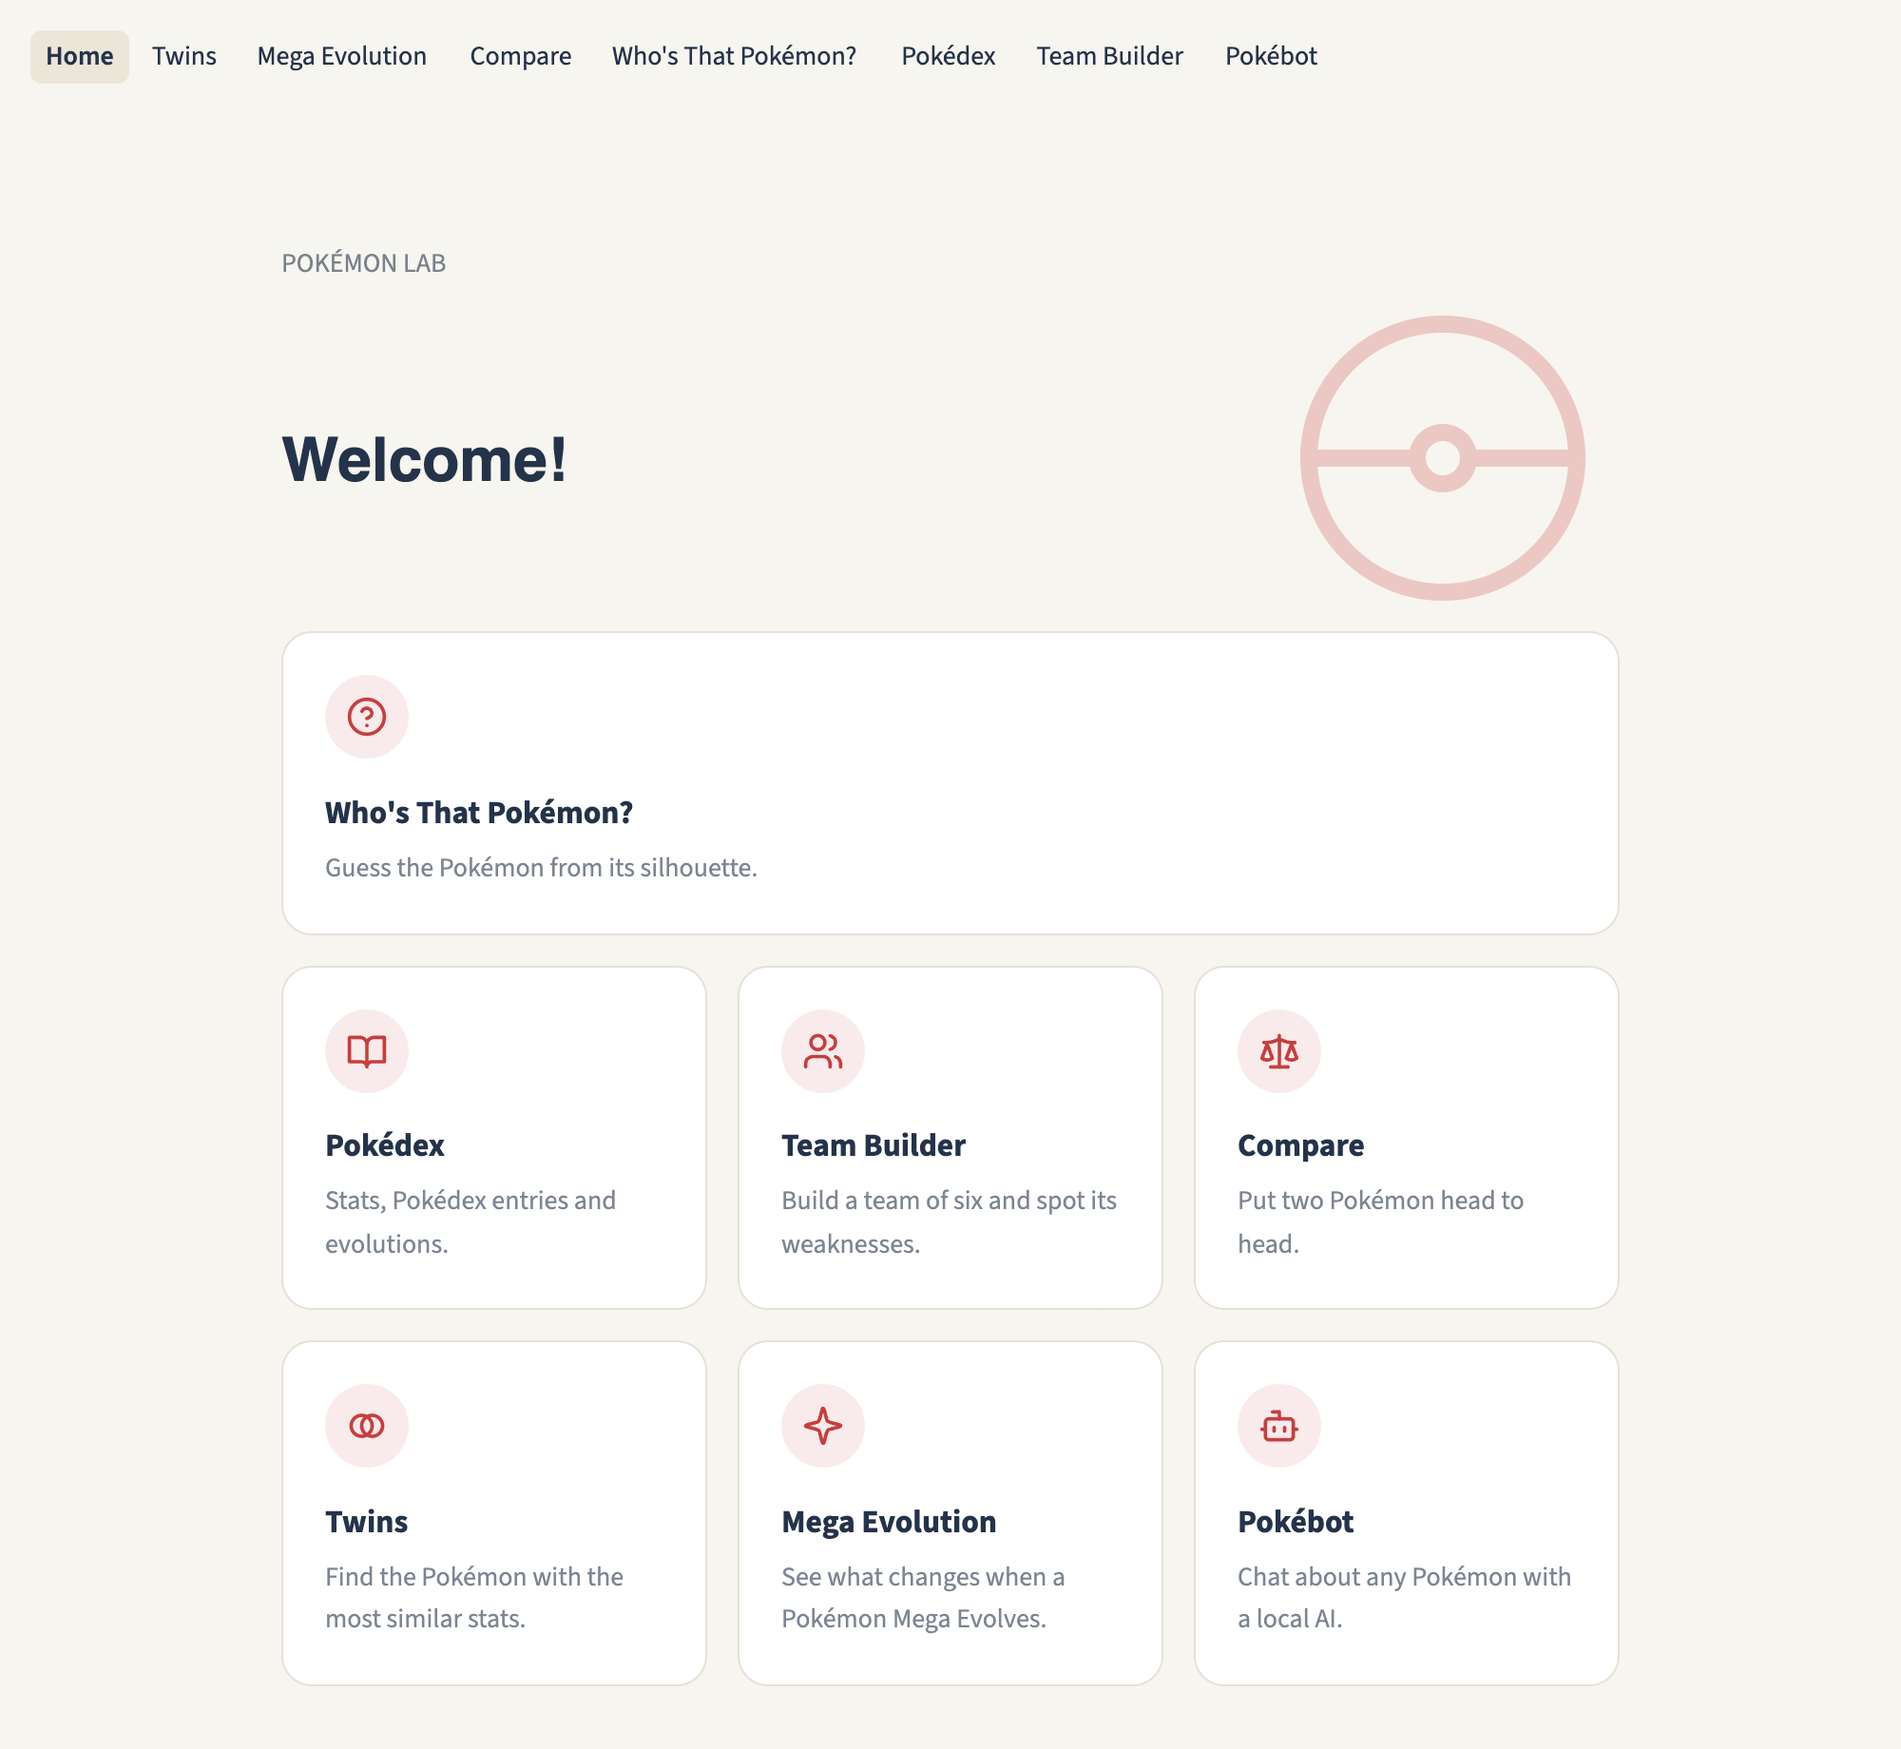
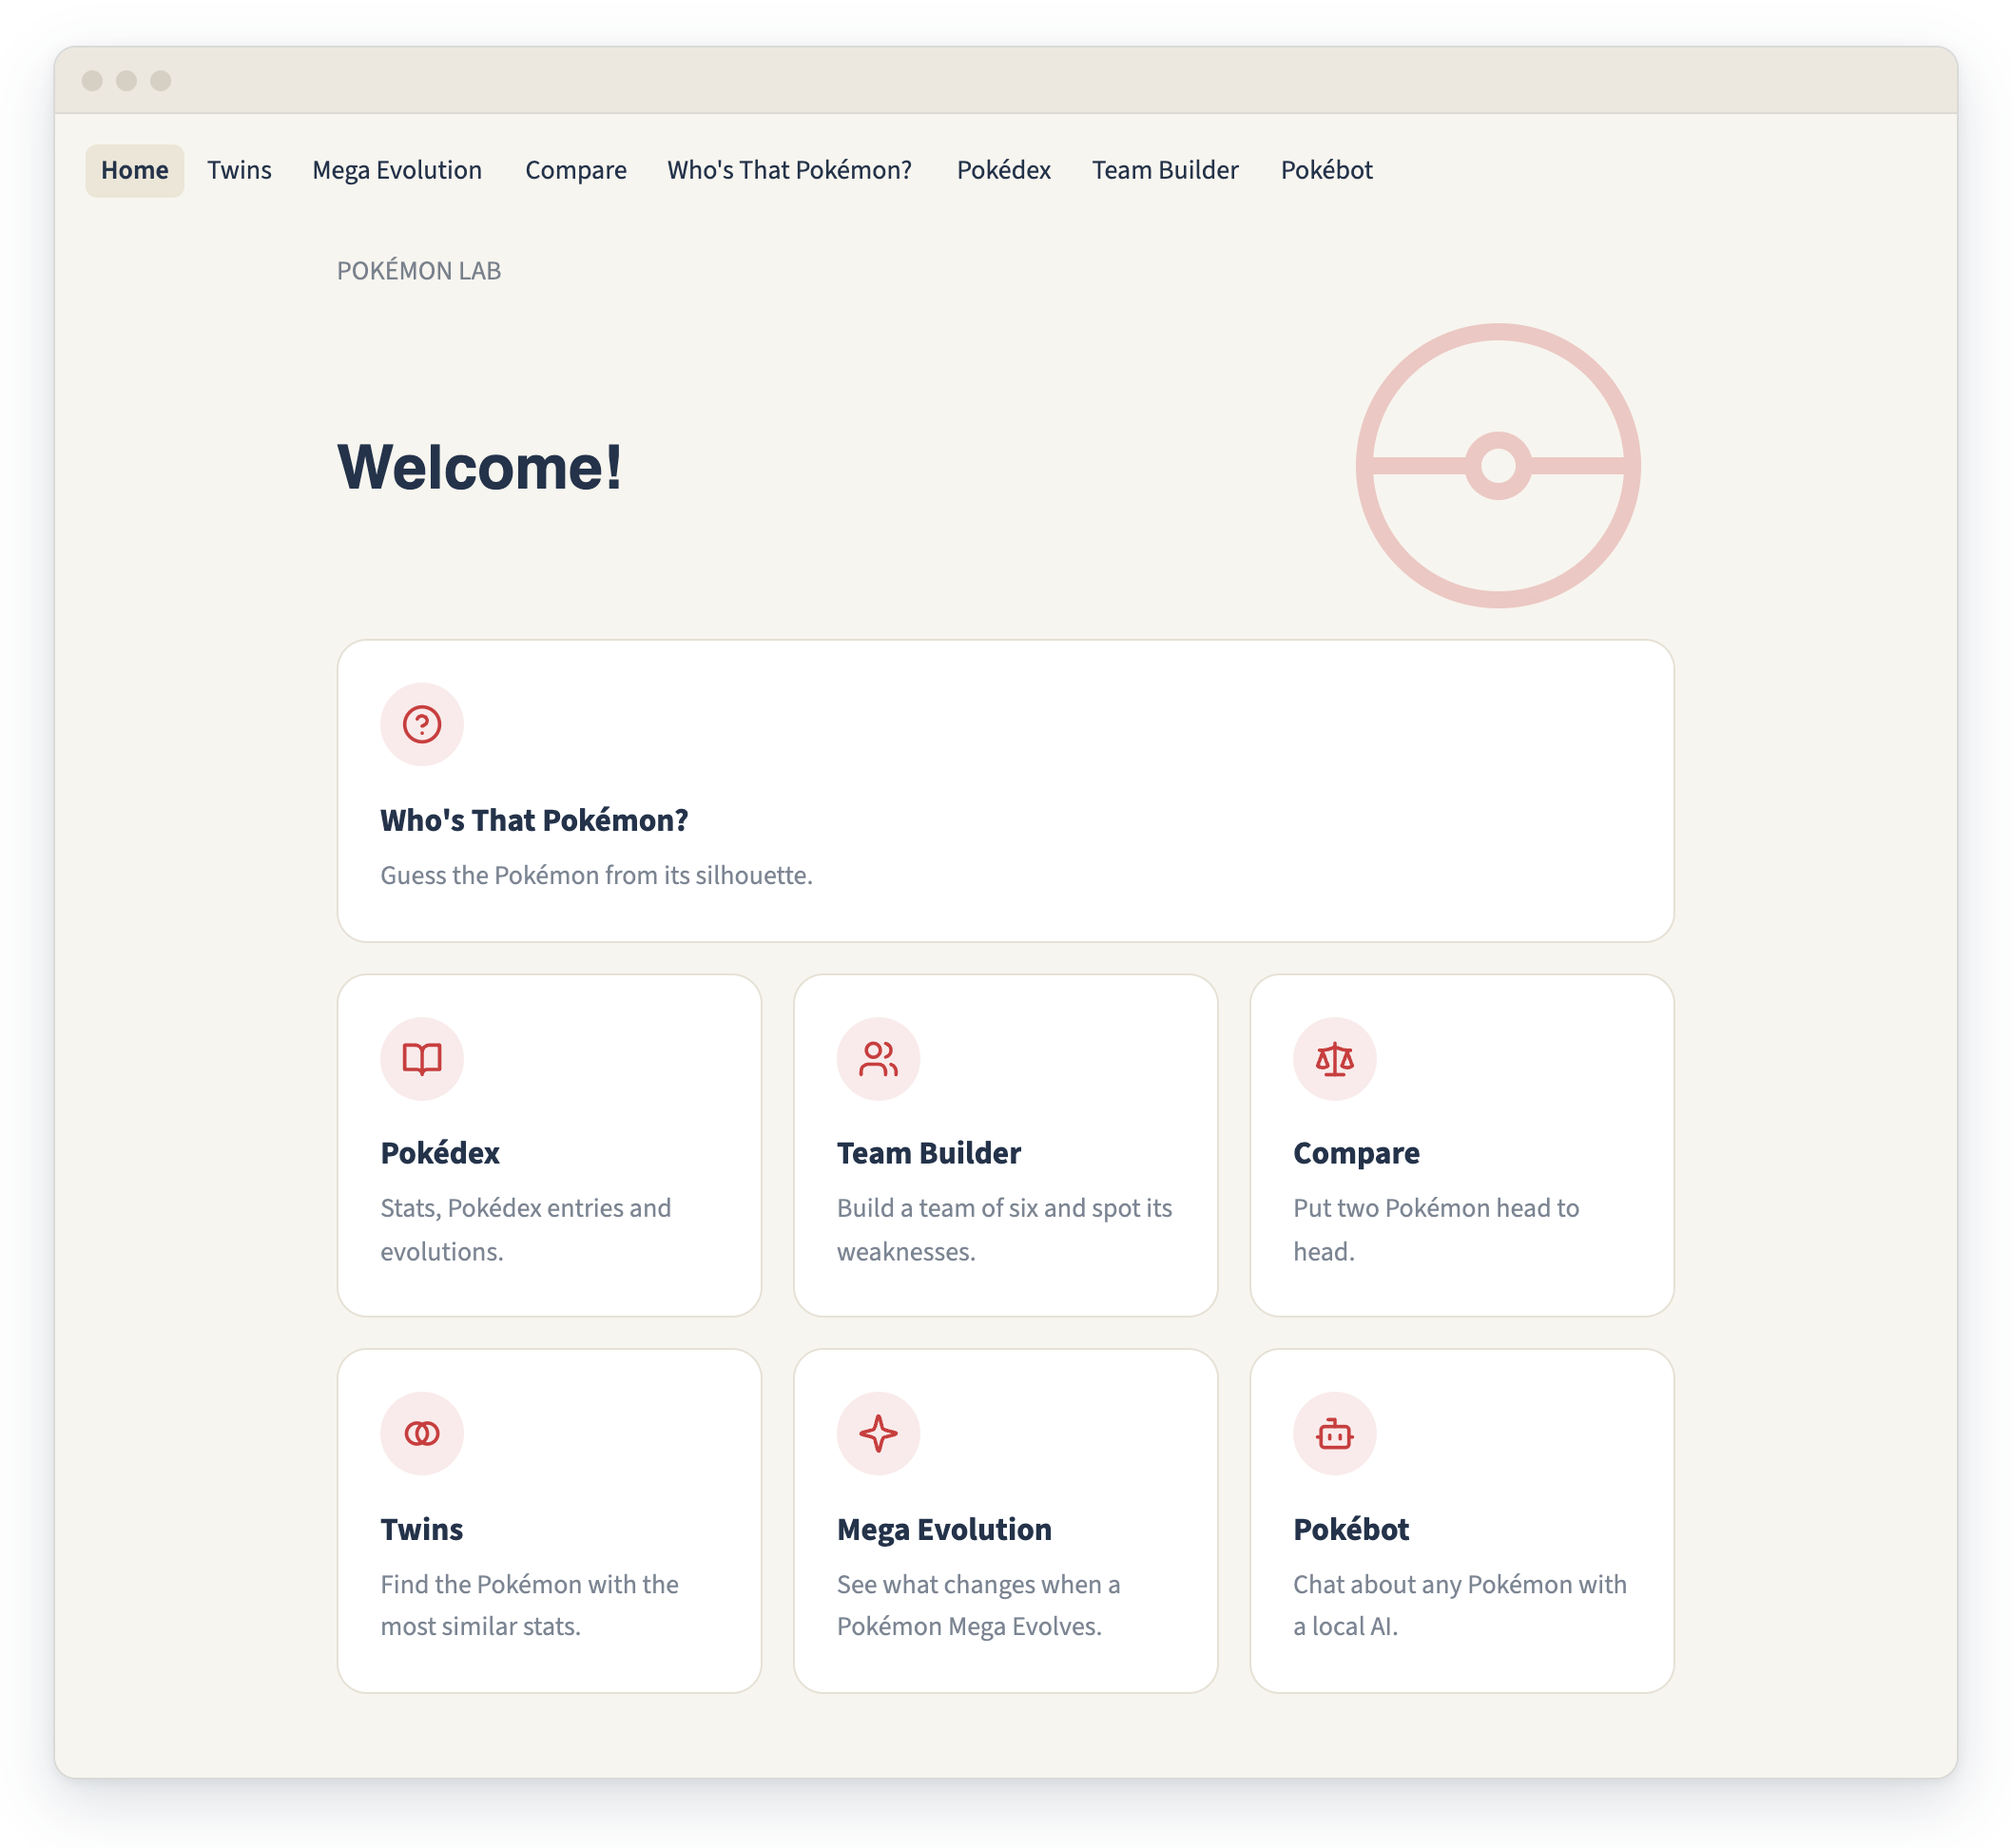
Use same-size framed screenshots in a consistent README grid

diff --git a/README.md b/README.md
@@ -22,31 +22,31 @@
     <td width="50%" valign="top">
       <img src="docs/screenshots/quiz.png" alt="Who's That Pokémon quiz">
       <h3>Who's That Pokémon?</h3>
-      Guess the Pokémon from its silhouette. Every wrong guess unlocks a new hint.
+      <p>Guess the silhouette. Every wrong guess unlocks a new hint.</p>
     </td>
     <td width="50%" valign="top">
       <img src="docs/screenshots/pokedex.png" alt="Pokédex page for Charizard">
       <h3>Pokédex</h3>
-      Stats, Pokédex entries, evolution families and Mega forms. Click a sprite to jump to it.
+      <p>Stats, Pokédex entries, evolutions and Mega forms in one place.</p>
     </td>
   </tr>
   <tr>
     <td width="50%" valign="top">
       <img src="docs/screenshots/team.png" alt="Team Builder with six Pokémon">
       <h3>Team Builder</h3>
-      Pick six Pokémon and see the team's average stats, type mix and shared weaknesses.
+      <p>Pick six Pokémon and find the types your team is weak against.</p>
     </td>
     <td width="50%" valign="top">
-      <h3>And more</h3>
-      <ul>
-        <li><b>Compare</b>: two Pokémon head to head</li>
-        <li><b>Twins</b>: the Pokémon with the most similar base stats</li>
-        <li><b>Mega Evolution</b>: what changes when a Pokémon Mega Evolves</li>
-        <li><b>Pokébot</b>: chat about a Pokémon with a small local AI model</li>
-      </ul>
+      <img src="docs/screenshots/compare.png" alt="Pikachu compared with Raichu">
+      <h3>Compare</h3>
+      <p>Put two Pokémon side by side and see who wins each stat.</p>
     </td>
   </tr>
 </table>
+
+<p align="center">
+  Also included: <b>Twins</b> (most similar stats), <b>Mega Evolution</b> and <b>Pokébot</b> (local AI chat).
+</p>
 
 ## How it works
 
